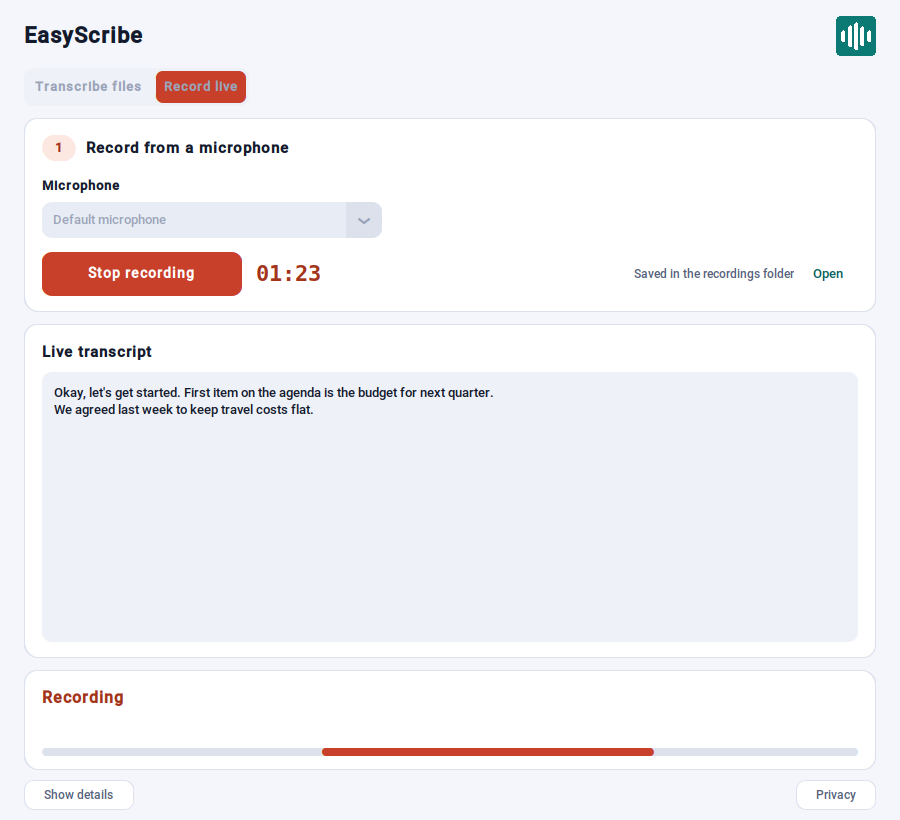
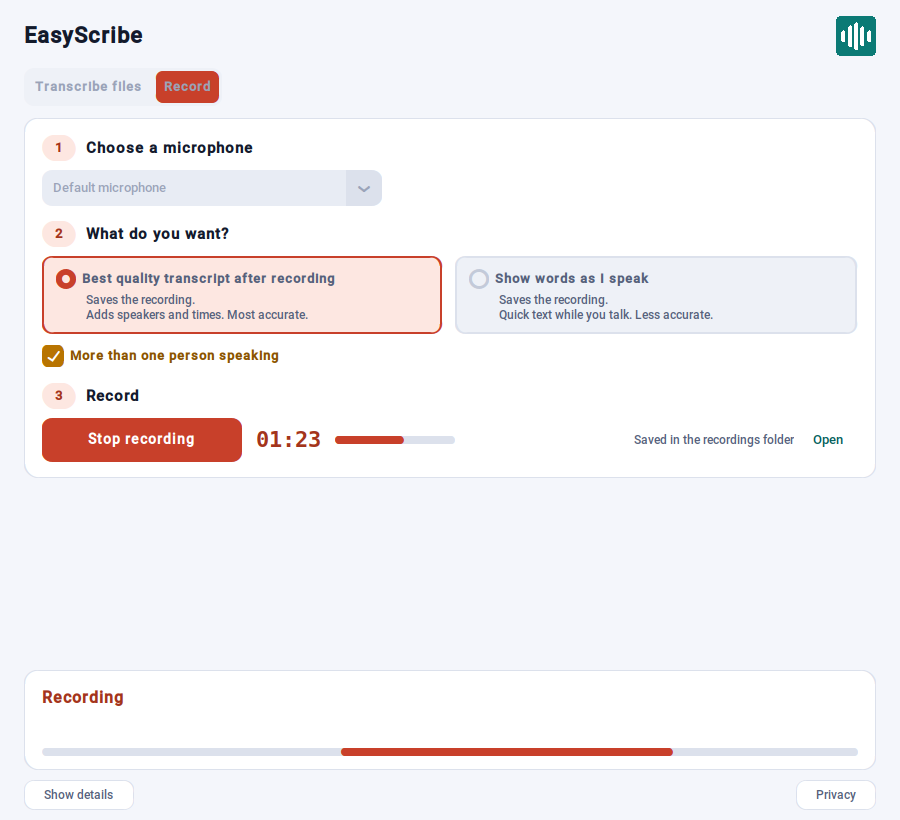
Record tab: fold steps in live mode; new screenshots
- In live mode, steps 1 and 2 fold into one line ("Change" to open
  them) while the activity panel shows. Before, the live transcript
  box had no height after the stop at the default window size.
- The level bar shows no coral dot when no recording runs.
- New README screenshots for the Record tab and the renamed tabs.

Claude-Session: https://claude.ai/code/session_019TGww6XQJK652FmzYeHGWV

diff --git a/src/gui.py b/src/gui.py
@@ -863,9 +863,8 @@ class TranscriberApp(_AppBase):  # type: ignore
         rec_card.grid_columnconfigure((0, 1), weight=1, uniform="rec")
 
         # ── Step 1: microphone ────────────────────────────────────────────────
-        self._step_header(rec_card, "1", "Choose a microphone", C.CORAL_INK, C.CORAL_SOFT).grid(
-            row=0, column=0, columnspan=2, padx=18, pady=(16, 8), sticky="ew"
-        )
+        step1 = self._step_header(rec_card, "1", "Choose a microphone", C.CORAL_INK, C.CORAL_SOFT)
+        step1.grid(row=0, column=0, columnspan=2, padx=18, pady=(16, 8), sticky="ew")
         self._mic_options, self._mic_index_map = self._build_mic_options()
         self._mic_var = ctk.StringVar(value=self._mic_options[0])
         self._mic_menu = ctk.CTkOptionMenu(
@@ -890,9 +889,8 @@ class TranscriberApp(_AppBase):  # type: ignore
         self._mic_menu.grid(row=1, column=0, columnspan=2, padx=18, pady=(0, 14), sticky="w")
 
         # ── Step 2: what to do with the recording ─────────────────────────────
-        self._step_header(rec_card, "2", "What do you want?", C.CORAL_INK, C.CORAL_SOFT).grid(
-            row=2, column=0, columnspan=2, padx=18, pady=(0, 8), sticky="ew"
-        )
+        step2 = self._step_header(rec_card, "2", "What do you want?", C.CORAL_INK, C.CORAL_SOFT)
+        step2.grid(row=2, column=0, columnspan=2, padx=18, pady=(0, 8), sticky="ew")
         self._rec_mode_var = ctk.StringVar(value=_REC_BEST)
         self._rec_tiles: dict[str, tuple[ctk.CTkFrame, ctk.CTkRadioButton]] = {}
         self._rec_choice_tile(
@@ -905,6 +903,23 @@ class TranscriberApp(_AppBase):  # type: ignore
             title="Show words as I speak",
             body="Saves the recording.\nQuick text while you talk. Less accurate.",
         )
+
+        # Steps 1 and 2 fold into one line during and after a live recording,
+        # so the live transcript keeps its room on short screens.
+        self._rec_setup = [step1, self._mic_menu, step2] + [t for t, _r in self._rec_tiles.values()]
+        self._rec_summary = ctk.CTkFrame(rec_card, fg_color="transparent")
+        self._rec_summary.grid(row=0, column=0, columnspan=2, padx=18, pady=(16, 10), sticky="ew")
+        self._rec_summary.grid_columnconfigure(0, weight=1)
+        self._rec_summary_label = ctk.CTkLabel(
+            self._rec_summary, text="", font=self._f_small, text_color=C.MUTED, anchor="w"
+        )
+        self._rec_summary_label.grid(row=0, column=0, sticky="w")
+        self._rec_change_btn = _button(
+            self._rec_summary, "Change", kind="link", width=70, height=28,
+            command=self._on_change_options,
+        )
+        self._rec_change_btn.grid(row=0, column=1)
+        self._rec_summary.grid_remove()
 
         self._rec_speakers_var = ctk.BooleanVar(value=False)
         self._rec_speakers_cb = self._speakers_checkbox(rec_card)
@@ -930,7 +945,8 @@ class TranscriberApp(_AppBase):  # type: ignore
         # matters most when no words appear during the recording.
         self._level_bar = ctk.CTkProgressBar(
             rec_row, width=120, height=8, corner_radius=4,
-            fg_color=C.BORDER, progress_color=C.CORAL, mode="determinate",
+            # The track colour while idle: an empty bar would show a coral dot.
+            fg_color=C.BORDER, progress_color=C.BORDER, mode="determinate",
         )
         self._level_bar.set(0)
         self._level_bar.grid(row=0, column=2)
@@ -1889,6 +1905,7 @@ class TranscriberApp(_AppBase):  # type: ignore
         self._action_row.grid()
 
     def _fold_options(self, folded: bool) -> None:
+        self._fold_rec_setup(folded and self._rec_mode_var.get() == _REC_LIVE)
         if not folded or self._mode != _MODE_FILES:
             self._options_summary.grid_remove()
             self._change_options_btn.grid_remove()
@@ -1909,6 +1926,21 @@ class TranscriberApp(_AppBase):  # type: ignore
             self._change_options_btn.grid()
         else:
             self._change_options_btn.grid_remove()
+
+    def _fold_rec_setup(self, folded: bool) -> None:
+        for widget in self._rec_setup:
+            widget.grid_remove() if folded else widget.grid()
+        if not folded:
+            self._rec_summary.grid_remove()
+            return
+        self._rec_summary_label.configure(
+            text=f"{_shorten(self._mic_var.get(), 50)}. Show words as I speak."
+        )
+        self._rec_summary.grid()
+        if self._ui_state == "idle":
+            self._rec_change_btn.grid()
+        else:
+            self._rec_change_btn.grid_remove()
 
     def _on_change_options(self) -> None:
         if self._ui_state == "idle":
@@ -1992,7 +2024,9 @@ class TranscriberApp(_AppBase):  # type: ignore
     def _tick_level(self) -> None:
         if self._rec_started_at is None:
             self._level_bar.set(0)
+            self._level_bar.configure(progress_color=C.BORDER)
             return
+        self._level_bar.configure(progress_color=C.CORAL)
         # Square root: quiet speech still moves the bar clearly.
         self._level_bar.set(min(1.0, self._mic_recorder.get_level() ** 0.5))
         self.after(100, self._tick_level)

diff --git a/CLAUDE.md b/CLAUDE.md
@@ -331,4 +331,4 @@ SDK) are removed in CI: sounddevice loads them only when `SD_ENABLE_ASIO` is set
 | v3.0.0-beta2 | Launcher compares versions and updates an older install in place (backup + rollback, user data kept); AppUserModelID + shell icon refresh for the taskbar icon; "Make full transcript" after a live recording; live VAD flush on stop; shared `CancelledError`; dependencies pinned in `requirements.txt` (venv cache v4); validation of the assembled app folder in CI |
 | v3.0.0-beta3 | PyInstaller `Splash` ("Getting ready") during the one-file extraction; installer waits for the user before an update and uses the app's light CustomTkinter theme; `win_paint.py` stops the black-block flash on refocus (Windows); Show details / Privacy drawn as small outlined buttons |
 | v3.0.0 | First full release. Third-party licenses and notices in the bundle (`licenses/`, `assets/collect_licenses.py`, checked by `validate_build.py`); ASIO PortAudio DLLs removed; exe renamed `EasyScribe-v3.0.0.exe` (no `-whisper`); release notes and README explain Mark of the Web (Unblock tip). Code signing deferred to 3.1 |
-| v3.1.0 | Record tab (was "Record live") asks first: "Best quality transcript after recording" (default: record only, `MicRecorder.start(feed_vad=False)`, then the whisper.cpp file pipeline starts at stop with timestamps and the speakers switch) or "Show words as I speak" (live sherpa-onnx). "Make best quality transcript" after a live recording or a cancel stays in the Record tab and keeps the live transcript (`(best quality).txt`); mic level meter (`MicRecorder.get_level`) |
+| v3.1.0 | Record tab (was "Record live") asks first: "Best quality transcript after recording" (default: record only, `MicRecorder.start(feed_vad=False)`, then the whisper.cpp file pipeline starts at stop with timestamps and the speakers switch) or "Show words as I speak" (live sherpa-onnx). "Make best quality transcript" after a live recording or a cancel stays in the Record tab and keeps the live transcript (`(best quality).txt`); mic level meter (`MicRecorder.get_level`); in live mode steps 1-2 fold to one line while the activity panel shows, so the live transcript keeps its room |
